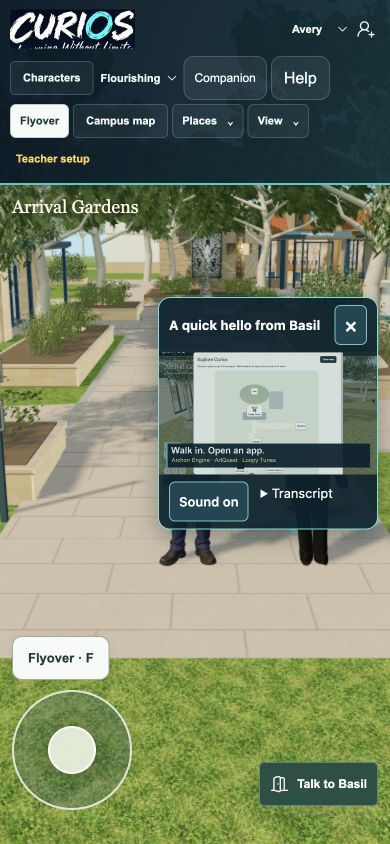
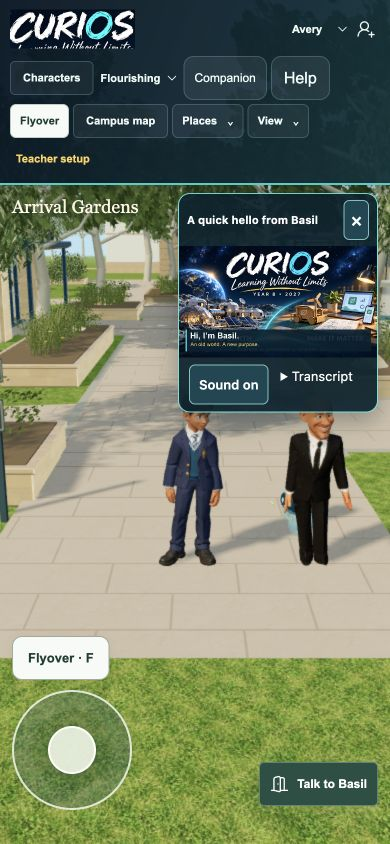
Record final live welcome acceptance [skip ci]

Changed region(s): [[0.3692, 0.2156, 0.9846, 0.6777]]

diff --git a/docs/PROGRESS.md b/docs/PROGRESS.md
@@ -54,3 +54,4 @@ Phone-sized 390×844 native browser check found the initial world anchor obscure
 
 ## Public release checks
 GitHub Pages deployments42174148111 (9f800619) and42174409059 (f80a6e7) succeeded. Public root resolves to /Curios-Trial/playable-3d/. Native browser verified full campus, animated Basil clone, muted playing62.25-second welcome (readyState4), actual walking into Archon Engine, ArtQuest and Loopy Tunes embedded UIs, Return to Curios, and Avatar Studio’s eight original character options. Screenshots include basil-mini-live-desktop.jpg. Narrow live check exposed browser-cached earlier welcome placement; versioned the changed stylesheet/module chain to deliver the compact layout to returning visitors. Final cache-refresh release verification follows. No physical school-device/network qualification or full upstream CI claimed.
+Final refresh release1be3325ac3d41bbe75f7364f60710ff0df1b9c91 published successfully via workflow_dispatch run42174774852. Native live390×844 verified the updated200px panel docked at top193px, with campus/characters and joystick visible; screenshot basil-mini-live-phone.jpg replaced with the final result. Desktop1280×800 evidence is basil-mini-live-desktop.jpg. Temporary viewport override reset; live game left as the deliverable. Source checks67 / tests8 / original asset hashes217 pass. Task complete; original Career Empire, Blueprint and external app repositories untouched.

diff --git a/AGENTS.md b/AGENTS.md
@@ -20,3 +20,4 @@ User supplied Curios branding; retain original campus/Avatar Studio/avatars/NPCs
 Basil now has a small non-modal narrated motion-graphics video, anchored beside his entrance model. World stays visible and walking remains enabled; autoplay muted, optional sound/captions/transcript. Teachers editing his dialogue automatically disable the stock film. Media script/provenance and checks are recorded in docs/PROGRESS.md and docs/curios-assets.json. Original Career Empire and Blueprint remain untouched. Current source checks: 67 modules; focused tests: 8. Publication and live verification pending below.
 
 Public release: Curios-Trial is live at https://emmanuelcc-ict.github.io/Curios-Trial/ . Native browser confirmed campus, Basil welcome playback, all three app rooms/return and original eight-avatar Studio. 217 original asset hashes, 67-module checks and 8 focused tests passed. Final refresh versioning added for updated narrow-screen welcome; deployment evidence in docs/PROGRESS.md. Keep future work inside this separate repository, not Career Empire/Blueprint.
+Final task closure: refresh release1be3325 deployed successfully (run42174774852); final live phone panel200px wide at top193px confirmed, desktop entrance captured, app rooms and Avatar Studio verified. No remaining task blocker. Release evidence and limitations remain in docs/PROGRESS.md. Documentation-only closure follows with CI skipped.
